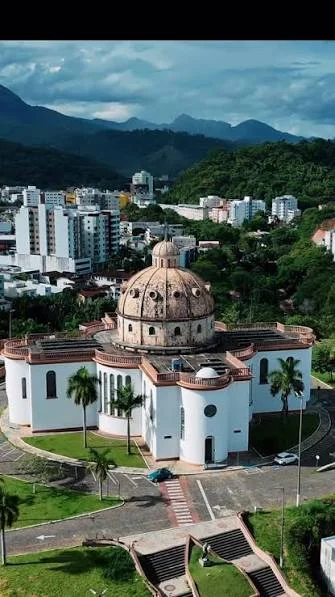
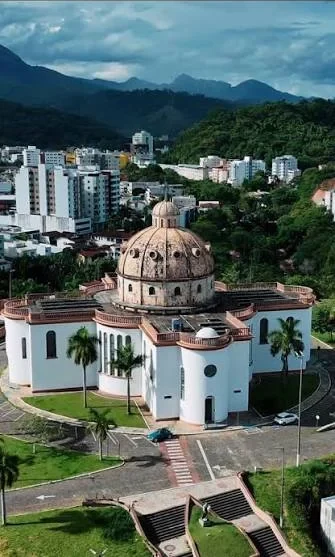
História em capítulos texto/foto, molduras proporcionais e correção da igreja com cúpula
- "A história" passa a ter três capítulos em zigue-zague (texto e foto
  alternando lados, ligados por um Veio de cobre central), com legendas,
  fotos na proporção original e fixas ao lado do texto no desktop.
- Foto principal dos pontos: largura do painel, altura proporcional à
  imagem (sem corte nem faixas vazias).
- A igreja com cúpula é a Igreja Católica São José, não a capela de 1947:
  foto retirada do ponto Igreja São José e legendas da história corrigidas.
- Faixa preta removida do topo de historia-figure.webp.
- Licenças das fotos confirmadas pela equipe (IMAGENS.md, README).

Claude-Session: https://claude.ai/code/session_01PRtxroQfshtfAWqwzho7Xq

diff --git a/index.html b/index.html
@@ -141,20 +141,47 @@
 </section>
 
 <section class="historia" id="historia">
-  <div class="historia__intro">
-    <div class="historia__col">
-      <p class="eyebrow eyebrow--rule">Uma cidade formada por</p>
-      <h2 class="historia__heading">Território, trabalho e pessoas.</h2>
-      <p class="historia__p">A história de Timóteo está diretamente ligada à formação do Vale do Aço e às transformações que marcaram o desenvolvimento da região. Antes da consolidação do município, o território era habitado por povos indígenas e, posteriormente, passou por um processo de ocupação relacionado à agricultura, à pecuária e à formação dos primeiros povoados.</p>
-      <p class="historia__p">O nome Timóteo está associado à antiga Paragem do Ribeirão do Timóteo e, segundo registros históricos, faz referência a Manoel Timóteo, considerado um dos primeiros moradores e comerciantes da região.</p>
-      <div class="historia__inline-figure"><img src="assets/img/historia-figure-2.webp" width="516" height="387" loading="lazy" alt="Monumento da Paragem do Ribeirão do Timóteo, em praça arborizada."></div>
-      <p class="historia__p">A grande transformação da cidade aconteceu a partir da década de 1940, com a implantação da Companhia Aços Especiais Itabira – Acesita. A chegada da siderúrgica impulsionou o crescimento populacional e urbano, atraindo trabalhadores e promovendo a construção de bairros, escolas, equipamentos públicos e novas infraestruturas. A indústria tornou-se parte fundamental da identidade local e ajudou a consolidar Timóteo como uma das cidades que formam o Vale do Aço.</p>
-      <p class="historia__p">Após pertencer administrativamente a Antônio Dias e, posteriormente, a Coronel Fabriciano, Timóteo conquistou sua autonomia político-administrativa na década de 1960, iniciando uma nova etapa de desenvolvimento.</p>
-      <div class="historia__inline-figure"><img src="assets/img/historia-figure-3.webp" width="640" height="480" loading="lazy" alt="Vista aérea de uma igreja com cúpula cercada de árvores, em meio aos bairros e às serras de Timóteo."></div>
-      <p class="historia__p">Ao longo do tempo, a cidade construiu uma identidade marcada pela relação entre indústria, trabalho, cultura, natureza e memória. Edificações históricas, espaços públicos, manifestações culturais e tradições preservam diferentes momentos dessa trajetória e revelam os caminhos percorridos pela população na construção da cidade.</p>
-      <p class="historia__p">Conhecer Timóteo é, portanto, conhecer os veios de sua história: marcas do passado que permanecem presentes no território, na arquitetura, na cultura e na memória de sua gente, conectando as origens da cidade ao seu presente e às próximas gerações.</p>
-    </div>
-    <div class="historia__figure"><img src="assets/img/historia-figure.webp" width="335" height="597" loading="lazy" alt="Igreja com cúpula vista do alto, com prédios e serras de Timóteo ao fundo."></div>
+  <!-- The history reads as three chapters that alternate text and photo
+       across both columns, joined by a thin copper Veio down the middle. -->
+  <div class="historia__story">
+    <article class="historia__chapter">
+      <div class="historia__text">
+        <p class="eyebrow eyebrow--rule">Uma cidade formada por</p>
+        <h2 class="historia__heading">Território, trabalho e pessoas.</h2>
+        <p class="historia__era"><span>01</span> As origens</p>
+        <p class="historia__p">A história de Timóteo está diretamente ligada à formação do Vale do Aço e às transformações que marcaram o desenvolvimento da região. Antes da consolidação do município, o território era habitado por povos indígenas e, posteriormente, passou por um processo de ocupação relacionado à agricultura, à pecuária e à formação dos primeiros povoados.</p>
+        <p class="historia__p">O nome Timóteo está associado à antiga Paragem do Ribeirão do Timóteo e, segundo registros históricos, faz referência a Manoel Timóteo, considerado um dos primeiros moradores e comerciantes da região.</p>
+      </div>
+      <figure class="historia__fig">
+        <img src="assets/img/historia-figure-2.webp" width="516" height="387" loading="lazy" alt="Monumento da Paragem do Ribeirão do Timóteo, em praça arborizada.">
+        <figcaption>Monumento da Paragem do Ribeirão do Timóteo.</figcaption>
+      </figure>
+    </article>
+
+    <article class="historia__chapter historia__chapter--flip">
+      <div class="historia__text">
+        <p class="historia__era"><span>02</span> A indústria e a autonomia · décadas de 1940 a 1960</p>
+        <p class="historia__p">A grande transformação da cidade aconteceu a partir da década de 1940, com a implantação da Companhia Aços Especiais Itabira – Acesita. A chegada da siderúrgica impulsionou o crescimento populacional e urbano, atraindo trabalhadores e promovendo a construção de bairros, escolas, equipamentos públicos e novas infraestruturas. A indústria tornou-se parte fundamental da identidade local e ajudou a consolidar Timóteo como uma das cidades que formam o Vale do Aço.</p>
+        <p class="historia__p">Após pertencer administrativamente a Antônio Dias e, posteriormente, a Coronel Fabriciano, Timóteo conquistou sua autonomia político-administrativa na década de 1960, iniciando uma nova etapa de desenvolvimento.</p>
+      </div>
+      <figure class="historia__fig">
+        <img src="assets/img/historia-figure-3.webp" width="640" height="480" loading="lazy" alt="Vista aérea da Igreja Católica São José, com cúpula, cercada de árvores e dos bairros de Timóteo.">
+        <figcaption>Igreja Católica São José, vista do alto, entre os bairros e as serras.</figcaption>
+      </figure>
+    </article>
+
+    <article class="historia__chapter">
+      <div class="historia__text">
+        <p class="historia__era"><span>03</span> Os veios da cidade</p>
+        <p class="historia__p">Ao longo do tempo, a cidade construiu uma identidade marcada pela relação entre indústria, trabalho, cultura, natureza e memória. Edificações históricas, espaços públicos, manifestações culturais e tradições preservam diferentes momentos dessa trajetória e revelam os caminhos percorridos pela população na construção da cidade.</p>
+        <p class="historia__closing">Conhecer Timóteo é, portanto, conhecer os veios de sua história: marcas do passado que permanecem presentes no território, na arquitetura, na cultura e na memória de sua gente, conectando as origens da cidade ao seu presente e às próximas gerações.</p>
+        <a class="btn historia__cta" href="#mapa">Percorrer a rota</a>
+      </div>
+      <figure class="historia__fig historia__fig--portrait">
+        <img src="assets/img/historia-figure.webp" width="335" height="557" loading="lazy" alt="Igreja Católica São José vista do alto, com prédios e serras de Timóteo ao fundo.">
+        <figcaption>Igreja Católica São José e, ao fundo, a cidade.</figcaption>
+      </figure>
+    </article>
   </div>
 
   <div class="historia__numbers">

diff --git a/assets/css/site.css b/assets/css/site.css
@@ -209,21 +209,41 @@ a:hover { color: var(--green-800); }
 
 /* ============================ HistoriaSection ========================= */
 .historia { background: var(--surface-page); padding: var(--space-13) var(--space-10); }
-.historia__intro {
-  max-width: var(--container-max); margin: 0 auto;
-  display: grid; grid-template-columns: minmax(0,1.1fr) minmax(0,1fr);
-  gap: var(--space-11); align-items: start;
-}
-.historia__col { display: flex; flex-direction: column; gap: var(--space-7); }
 .historia__heading {
   font: var(--type-display); color: var(--text-heading); letter-spacing: var(--tracking-display);
   text-transform: uppercase; max-width: 20ch;
 }
-.historia__p { font: var(--type-body); color: var(--text-body); max-width: var(--measure-body); margin: 0; }
-.historia__inline-figure { aspect-ratio: 16 / 9; max-width: var(--measure-body); background: var(--surface-sunken); }
-.historia__inline-figure img { width: 100%; height: 100%; object-fit: cover; display: block; }
-.historia__figure { position: relative; aspect-ratio: 3 / 4; background: var(--surface-sunken); }
-.historia__figure img { width: 100%; height: 100%; object-fit: cover; display: block; }
+.historia__p { font: var(--type-body); font-size: 16px; color: var(--text-body); max-width: var(--measure-body); margin: 0; }
+
+/* Three chapters, text and photo alternating sides. A copper Veio runs down
+   the gutter between the columns and lights a node at each chapter. */
+.historia__story { position: relative; max-width: var(--container-max); margin: 0 auto; display: flex; flex-direction: column; gap: var(--space-12); }
+.historia__story::before {
+  content: ''; position: absolute; top: var(--space-4); bottom: var(--space-4); left: 50%; width: 1px;
+  background: linear-gradient(to bottom, transparent, var(--copper-300) 8%, var(--copper-300) 92%, transparent);
+  opacity: .55;
+}
+.historia__chapter { position: relative; display: grid; grid-template-columns: minmax(0,1fr) minmax(0,1fr); column-gap: var(--space-12); align-items: start; }
+.historia__chapter::before {
+  content: ''; position: absolute; left: 50%; top: var(--space-3); width: 11px; height: 11px; margin-left: -5.5px;
+  border-radius: 50%; background: var(--copper-400); box-shadow: 0 0 0 4px var(--surface-page), var(--glow-veio-sm);
+}
+.historia__chapter--flip .historia__text { grid-column: 2; grid-row: 1; }
+.historia__chapter--flip .historia__fig { grid-column: 1; grid-row: 1; }
+.historia__text { display: flex; flex-direction: column; gap: var(--space-6); }
+.historia__era { display: flex; align-items: baseline; gap: var(--space-4); margin: var(--space-2) 0 0; font: var(--type-eyebrow); letter-spacing: var(--tracking-eyebrow); text-transform: uppercase; color: var(--copper-600); }
+.historia__era span { font: var(--weight-display) var(--size-xl)/1 var(--font-display); color: var(--copper-500); letter-spacing: 0; }
+.historia__closing {
+  margin: 0; max-width: 46ch; padding-left: var(--space-6); border-left: 2px solid var(--copper-400);
+  font: var(--weight-regular) var(--size-lg)/1.5 var(--font-serif); font-style: italic; color: var(--green-800);
+}
+.historia__cta { align-self: flex-start; }
+/* Photos keep their own proportions (no crop, no empty bands) and stay in
+   view beside the text while it scrolls past on wide screens. */
+.historia__fig { margin: 0; position: sticky; top: calc(var(--header-height) + var(--space-7)); display: flex; flex-direction: column; gap: var(--space-3); }
+.historia__fig img { display: block; width: 100%; height: auto; background: var(--surface-sunken); }
+.historia__fig--portrait { max-width: 380px; justify-self: center; }
+.historia__fig figcaption { font: var(--type-body-sm); font-style: italic; color: var(--text-muted); padding-left: var(--space-4); border-left: 1px solid var(--copper-300); }
 
 .historia__numbers { max-width: var(--container-max); margin: var(--space-13) auto 0; }
 .numbers-grid { display: grid; grid-template-columns: repeat(auto-fit, minmax(190px,1fr)); gap: var(--space-6); margin-top: var(--space-8); }
@@ -243,7 +263,13 @@ a:hover { color: var(--green-800); }
 .historia__split-col { display: flex; flex-direction: column; gap: var(--space-4); }
 
 @media (max-width: 900px) {
-  .historia__intro, .historia__split { grid-template-columns: 1fr; }
+  .historia__split { grid-template-columns: 1fr; }
+  .historia__story { gap: var(--space-11); }
+  .historia__story::before, .historia__chapter::before { display: none; }
+  .historia__chapter { grid-template-columns: minmax(0,1fr); row-gap: var(--space-7); }
+  .historia__chapter--flip .historia__text, .historia__chapter--flip .historia__fig { grid-column: 1; grid-row: auto; }
+  .historia__fig { position: static; }
+  .historia__fig--portrait { max-width: 340px; justify-self: start; }
 }
 
 /* ============================= RotaSection ============================ */
@@ -335,8 +361,10 @@ a:hover { color: var(--green-800); }
 }
 .rota__photo img { width: 100%; height: 100%; object-fit: cover; display: block; transition: transform var(--duration-normal) var(--ease-out-soft); }
 .rota__photo:hover img { transform: scale(1.02); }
-.rota__photo--main { aspect-ratio: 3 / 2; }
-.rota__photo--main.is-portrait img { object-fit: contain; }
+/* Main photo: full panel width, height from the image's own ratio (the
+   width/height attributes reserve it before load) — never letterboxed. */
+.rota__photo--main { aspect-ratio: auto; }
+.rota__photo--main img { height: auto; object-fit: initial; }
 .rota__thumbs { display: grid; grid-template-columns: repeat(4, minmax(0,1fr)); gap: var(--space-3); }
 .rota__photo-caption { font: var(--type-label); letter-spacing: .04em; color: var(--text-on-inverse-muted); }
 .rota__photo-empty {

diff --git a/data/rota.js b/data/rota.js
@@ -216,7 +216,9 @@ window.FOTOS = {
     { src: 'assets/img/estacao-mario-carvalho-4.webp', w: 515, h: 388, alt: 'Acesso à estação, com a cobertura de concreto entre árvores.' },
     { src: 'assets/img/estacao-mario-carvalho-5.webp', w: 500, h: 326, alt: 'Passageiros na plataforma ao lado do trem de passageiros da Vitória a Minas.', credit: 'Becam Produções' }
   ],
-  'igreja-sao-jose': [{ src: 'assets/img/igreja-sao-jose.jpg', w: 515, h: 388, alt: 'Igreja de fachada branca com cúpula, cercada por palmeiras.' }],
+  /* 'igreja-sao-jose' has no photo on purpose: the domed church in the old
+     field photo is the Igreja Católica São José, a different building from
+     the 1947 chapel this point describes (confirmed by the project team). */
   'tapetes-corpus-christi': [{ src: 'assets/img/tapetes-corpus-christi.jpg', w: 900, h: 881, alt: 'Moradores confeccionam um tapete de serragem colorida na rua para a celebração de Corpus Christi.' }],
   'praca-coreto': [{ src: 'assets/img/praca-coreto.jpg', w: 246, h: 164, alt: 'Vista aérea da Praça do Coreto, arborizada, com caminhos e área central.' }],
   'carnaval': [{ src: 'assets/img/carnaval.jpg', w: 246, h: 164, alt: 'Desfile noturno de carnaval, com carro alegórico e público ocupando a rua.' }],

diff --git a/assets/js/app.js b/assets/js/app.js
@@ -266,7 +266,7 @@
     }
     var main = photos[0];
     var html = '<figure class="rota__gallery">';
-    html += '<button class="rota__photo rota__photo--main' + (main.h > main.w * 0.9 ? ' is-portrait' : '') + '" type="button" data-action="photo" data-index="0" aria-label="Ampliar fotografia: ' + esc(main.alt) + '">' +
+    html += '<button class="rota__photo rota__photo--main" type="button" data-action="photo" data-index="0" aria-label="Ampliar fotografia: ' + esc(main.alt) + '">' +
       '<img src="' + esc(main.src) + '" width="' + main.w + '" height="' + main.h + '" alt="' + esc(main.alt) + '" decoding="async"></button>';
     if (photos.length > 1) {
       html += '<div class="rota__thumbs">';

diff --git a/IMAGENS.md b/IMAGENS.md
@@ -5,16 +5,16 @@ Auditoria feita em 12/10/2026 sobre **todas** as imagens do site. A lista das fo
 ## Como ler
 
 - **Ação:** *manter* (adequada) · *substituir* (resolução ou enquadramento insuficientes; buscar uma original melhor) · *complementar* (adequada, mas com uma só imagem) · *investigar* (dúvida sobre o local retratado ou sobre a licença).
-- **Origem:** o README anterior registra as fotos dos pontos como "acervo de campo do grupo", sem autor, data ou licença por arquivo. Onde a própria imagem traz assinatura ou marca-d'água, o crédito aparece no site (campo `credit`).
-- **Resolução:** o espaço principal do painel tem proporção 3:2 e cerca de 400 a 560 px de largura. Abaixo de ~400 px de largura, a foto aparece ampliada e perde nitidez.
+- **Origem e licenças:** as fotos dos pontos são do acervo de campo do grupo. A equipe do projeto **confirmou as licenças de uso** de todas as fotos em uso (12/10/2026). Onde a própria imagem traz assinatura ou marca-d'água, o crédito aparece no site (campo `credit`).
+- **Moldura:** a foto principal ocupa toda a largura do painel (cerca de 290 a 560 px, conforme a tela). A altura acompanha a proporção da própria imagem, sem cortes e sem faixas vazias. Uma foto de 1200×1600 exibida a 400 px de largura fica com 533 px de altura. Abaixo de ~400 px de largura de origem, a foto aparece ampliada e perde nitidez.
 
 ## Pontos da rota
 
 | # | Ponto | Arquivo(s) | Qtd. | Resolução | Correspondência / observações | Ação |
 |---|---|---|---|---|---|---|
-| 1 | Estação Mário Carvalho | `estacao-mario-carvalho{,-2..-5}.webp` | 5 | 960×640 · 500×375 · 500×333 · 515×388 · 500×326 | Plataforma, placa da estação e trilhos da EFVM: corresponde. A nº 5 tem a assinatura **"Becam Produções"** gravada (creditada no site). Convertidas de PNG para WebP (de 2,2 MB para 0,3 MB, sem perda visível). | manter · investigar a licença da nº 5 |
+| 1 | Estação Mário Carvalho | `estacao-mario-carvalho{,-2..-5}.webp` | 5 | 960×640 · 500×375 · 500×333 · 515×388 · 500×326 | Plataforma, placa da estação e trilhos da EFVM: corresponde. A nº 5 tem a assinatura **"Becam Produções"** (crédito no site; licença confirmada). Convertidas de PNG para WebP (de 2,2 MB para 0,3 MB). | manter |
 | 2 | 1º Cartório de Notas | — | 0 | — | Sem fotografia. | buscar |
-| 3 | Igreja São José | `igreja-sao-jose.jpg` | 1 | 515×388 | Mostra uma igreja grande, com cúpula. **Dúvida:** a capela histórica de 1947 tem cerca de 100 lugares; a Igreja Nossa Senhora do Carmo, de 2023 e com 1.200 lugares, fica logo atrás dela ([Estado de Minas, 2013](https://www.em.com.br/app/noticia/gerais/2013/07/26/interna_gerais,427775/ex-metalurgicos-tentam-evitar-ampliacao-de-capela-em-timoteo-no-vale-do-aco.shtml)). A foto pode mostrar o templo novo, e não o bem inventariado. | **investigar** |
+| 3 | Igreja São José | — (removida) | 0 | — | A antiga `igreja-sao-jose.jpg` mostrava a igreja com cúpula, que é a **Igreja Católica São José**, um edifício diferente da capela de 1947 descrita no ponto (confirmado pela equipe). A foto foi retirada do ponto e do repositório. | **buscar** foto da capela de 1947 |
 | 3 | Tapetes de Corpus Christi | `tapetes-corpus-christi.jpg` | 1 | 900×881 | Confecção de tapete de serragem: corresponde à manifestação. A rua não é identificável na imagem. | manter |
 | 4 | Praça do Coreto | `praca-coreto.jpg` | 1 | **246×164** | Vista aérea da praça; resolução muito baixa. | **substituir** |
 | 4 | Carnaval Tradicional | `carnaval.jpg` | 1 | **246×164** | Desfile noturno; resolução muito baixa. | **substituir** |
@@ -38,24 +38,24 @@ Auditoria feita em 12/10/2026 sobre **todas** as imagens do site. A lista das fo
 | 21 | Oikós | `oikos.jpg` | 1 | 515×388 | Alameda arborizada com visitantes: corresponde. | manter |
 | 22 | Forno Hoffmann | `forno-hoffmann.jpg` | 1 | 515×388 | Chaminé e estrutura de tijolos: corresponde. | manter |
 | 23 | E.M. Virgínia de Souza Reis | — | 0 | — | Sem fotografia. | buscar |
-| 24 | Ponte Mauá | `ponte-maua.jpg` | 1 | 567×352 | Ponte em arco: corresponde. Tem a marca-d'água **"DA"** (*Diário do Aço*) no canto: é foto de imprensa, com crédito no site. A marca não foi removida. | **investigar a licença** |
+| 24 | Ponte Mauá | `ponte-maua.jpg` | 1 | 567×352 | Ponte em arco: corresponde. Tem a marca-d'água **"DA"** (*Diário do Aço*), com crédito no site; licença confirmada. A marca não foi removida. | manter |
 | 25 | E.E. João Cotta de Figueiredo Barcelos | — | 0 | — | Sem fotografia. | buscar |
 
-**Resumo:** são 28 entradas. 19 têm fotografia (a Estação com 5) e 9 exibem o estado "Fotografia em levantamento". 7 imagens estão em baixa resolução (≤ 246 px de largura), 2 têm marca de terceiros e 1 tem dúvida de identificação.
+**Resumo:** são 28 entradas. 18 têm fotografia (a Estação com 5) e 10 exibem o estado "Fotografia em levantamento". 7 imagens estão em baixa resolução (≤ 246 px de largura) e devem ser substituídas.
 
 ## Imagens editoriais (página inicial)
 
 | Arquivo | Uso | Resolução | Observação | Ação |
 |---|---|---|---|---|
 | `hero-bg.webp` | Capa | 1200×799 | Vista aérea do centro. Vem do handoff de design. | manter |
-| `historia-figure.webp` | História (vertical) | 335×597 | O texto alternativo do design dizia "Igreja Matriz de São Sebastião", mas a igreja com cúpula é **o mesmo edifício** de `igreja-sao-jose.jpg`, e a foto da Matriz de São Sebastião mostra outra arquitetura (torre de tijolos). O texto alternativo agora é descritivo, sem atribuir o nome. | **investigar** |
-| `historia-figure-2.webp` | História | 516×387 | "Monumento da Paragem do Ribeirão do Timóteo", conforme o design. | manter (confirmar) |
-| `historia-figure-3.webp` | História | 640×480 | Mesma situação de `historia-figure.webp`. | **investigar** |
+| `historia-figure.webp` | História, capítulo 03 (vertical) | 335×557 | Faixa preta de 40 px removida do topo do arquivo. **Igreja Católica São José** (confirmado pela equipe; o design a atribuía, por engano, à Matriz de São Sebastião). Legenda e texto alternativo corrigidos. | manter |
+| `historia-figure-2.webp` | História, capítulo 01 | 516×387 | "Monumento da Paragem do Ribeirão do Timóteo", conforme o design. | manter (confirmar) |
+| `historia-figure-3.webp` | História, capítulo 02 | 640×480 | Igreja Católica São José, vista aérea. Legenda e texto alternativo corrigidos. | manter |
 | `manifesto-figure.webp` | Manifesto | 978×550 | Vista aérea com o Ginásio José York. | manter |
 
 ## Pontos sem fotografia: o que o site mostra
 
-Os 9 pontos sem imagem verificada exibem uma placa intencional: o símbolo do Veio, "Fotografia em levantamento" e um convite à visita. O site **não** usa fotos de outros lugares, fotos parecidas nem imagens geradas por IA. A antiga grade com quatro quadros tracejados "Imagem a ser inserida" foi removida: a galeria mostra só as fotos que existem.
+Os 10 pontos sem imagem verificada exibem uma placa intencional: o símbolo do Veio, "Fotografia em levantamento" e um convite à visita. O site **não** usa fotos de outros lugares, fotos parecidas nem imagens geradas por IA. A antiga grade com quatro quadros tracejados "Imagem a ser inserida" foi removida: a galeria mostra só as fotos que existem.
 
 ## Busca de substitutas: limitação deste ciclo
 
@@ -64,7 +64,7 @@ O ambiente em que este trabalho foi feito **bloqueia o acesso de rede** a Wikime
 | Ponto | Candidata | Licença a confirmar |
 |---|---|---|
 | Igreja Matriz de São Sebastião | [Commons — Fachada da Igreja Matriz de São Sebastião, Timóteo MG.JPG](https://commons.wikimedia.org/wiki/File:Fachada_da_Igreja_Matriz_de_S%C3%A3o_Sebasti%C3%A3o,_Tim%C3%B3teo_MG.JPG) (há também uma versão de 2025, com 2869×3825 px) | Commons (geralmente CC BY-SA; conferir na página) |
-| Igreja São José (capela de 1947) | [Commons — Igreja São José Operário de Acesita com a nova Igreja Matriz de São José ao fundo, Timóteo MG.JPG](https://commons.wikimedia.org/wiki/File:Igreja_S%C3%A3o_Jos%C3%A9_Oper%C3%A1rio_de_Acesita_com_a_nova_Igreja_Matriz_de_S%C3%A3o_Jos%C3%A9_ao_fundo,_Tim%C3%B3teo_MG.JPG) (usuário HVL, set/2024). Também ajuda a resolver a dúvida de identificação acima. | idem |
+| Igreja São José (capela de 1947) | [Commons — Igreja São José Operário de Acesita com a nova Igreja Matriz de São José ao fundo, Timóteo MG.JPG](https://commons.wikimedia.org/wiki/File:Igreja_S%C3%A3o_Jos%C3%A9_Oper%C3%A1rio_de_Acesita_com_a_nova_Igreja_Matriz_de_S%C3%A3o_Jos%C3%A9_ao_fundo,_Tim%C3%B3teo_MG.JPG) (usuário HVL, set/2024) | idem |
 | Contexto (Timirim / Praça do Coliseu) | [Commons — Vista parcial do B. Timirim, Timóteo MG.JPG](https://commons.wikimedia.org/wiki/File:Vista_parcial_do_B._Timirim,_Tim%C3%B3teo_MG.JPG) | idem |
 | Vários pontos | Categoria do município no Wikimedia Commons e página [Pontos turísticos da Prefeitura](https://www.timoteo.mg.gov.br/14/pontos-turisticos) | Prefeitura: pedir autorização |
 

diff --git a/README.md b/README.md
@@ -80,11 +80,14 @@ A auditoria completa (resolução, correspondência, origem e ação por imagem)
 - A galeria mostra só fotos reais (miniaturas com carregamento tardio). Ao tocar, a foto abre ampliada em um `<dialog>`, com legenda e crédito. Uma imagem que falhe ao carregar é trocada pela placa abaixo, sem deixar quadro quebrado.
 - Pontos sem foto verificada exibem a placa "Fotografia em levantamento", com o símbolo do Veio, em vez dos antigos quadros tracejados "Imagem a ser inserida".
 - As 5 fotos da Estação foram convertidas de PNG para WebP (de 2,2 MB para 0,3 MB). Os JPEGs pequenos foram mantidos como estavam, para não perder qualidade em uma nova compressão.
-- **Pendências:** 7 fotos em baixa resolução, 2 com marca de terceiros (Becam Produções, Diário do Aço) e uma possível troca de igreja na foto da Igreja São José e nas figuras da história. Nenhuma imagem externa foi incorporada neste ciclo, porque o ambiente de trabalho não tinha acesso de rede aos acervos. As candidatas encontradas estão listadas em IMAGENS.md.
+- A foto principal tem largura fixa (a do painel) e altura proporcional à imagem: não há corte nem faixas vazias.
+- A equipe confirmou as licenças de todas as fotos em uso. A igreja com cúpula é a **Igreja Católica São José**, e não a capela de 1947 do ponto "Igreja São José". Por isso a foto saiu desse ponto, e as figuras da história receberam legendas corretas.
+- **Pendências:** 10 pontos sem foto e 7 fotos em baixa resolução (lista em IMAGENS.md).
 
 ## Estrutura da página e conteúdo
 
 - **O mapa vem logo depois da capa.** A experiência principal não fica mais atrás da narrativa institucional. A história vem em seguida e contextualiza a rota.
+- **A história** está organizada em três capítulos (as origens; a indústria e a autonomia; os veios da cidade). Texto e foto alternam de lado, ligados por um Veio de cobre no centro. As fotos mantêm a proporção original, com legenda, e ficam visíveis ao lado do texto durante a leitura (no celular, ficam empilhadas).
 - **"Timóteo em números"** mostra 5 indicadores conferidos no IBGE Cidades@ e na Aperam (consulta em 10/2026), cada um com rótulo, valor exato, data de referência e fonte com link. O PIB per capita foi corrigido de "R$ 56,9 mil" para "R$ 57,0 mil" (R$ 56.987,61 em 2023).
 - **"A intervenção urbana"** deixou de ser um "Em desenvolvimento." solto. Agora apresenta a proposta física descrita no próprio design system (Veio no piso, totens em aço corten, bancos com áudio, linha do tempo no piso, iluminação cênica), com o selo "Em desenvolvimento" e a explicação de que os elementos ainda não foram instalados.
 - **Menu mobile:** o botão tem `aria-expanded` e fecha com Esc. As âncoras usam `scroll-padding-top` para não ficarem sob o cabeçalho fixo.
